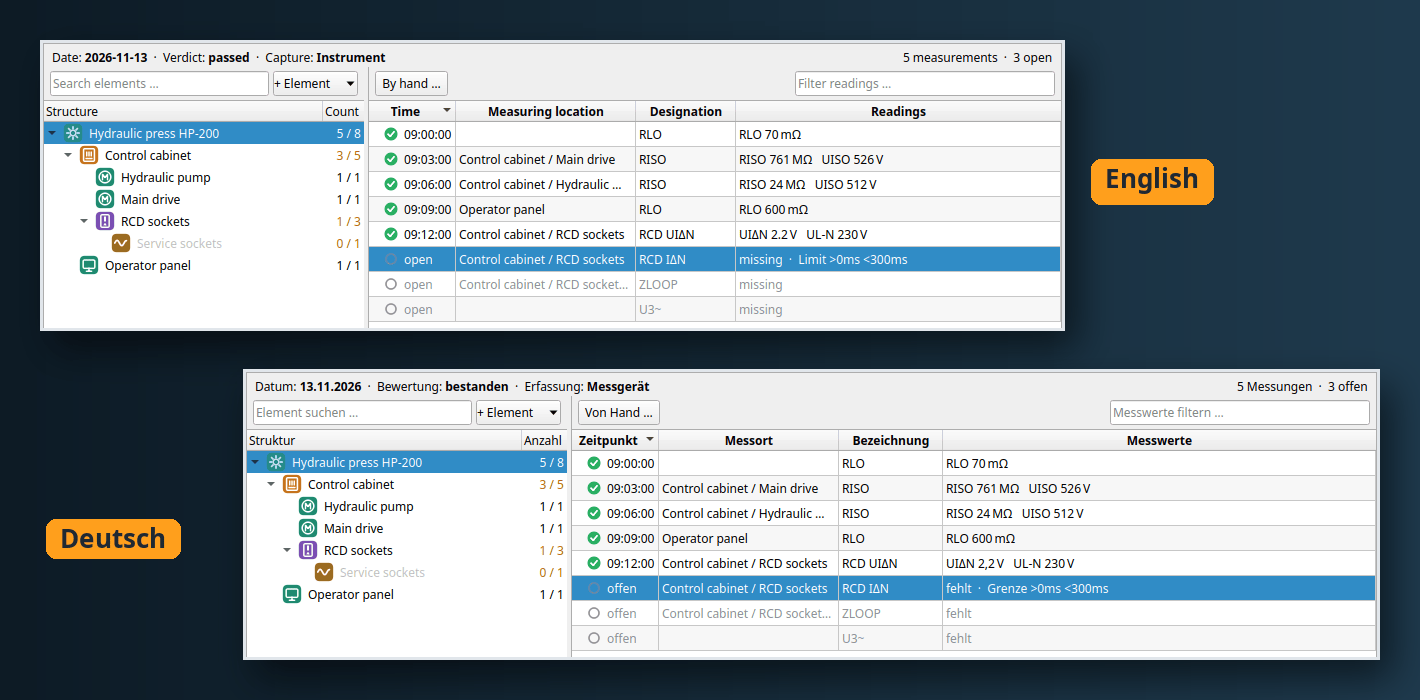
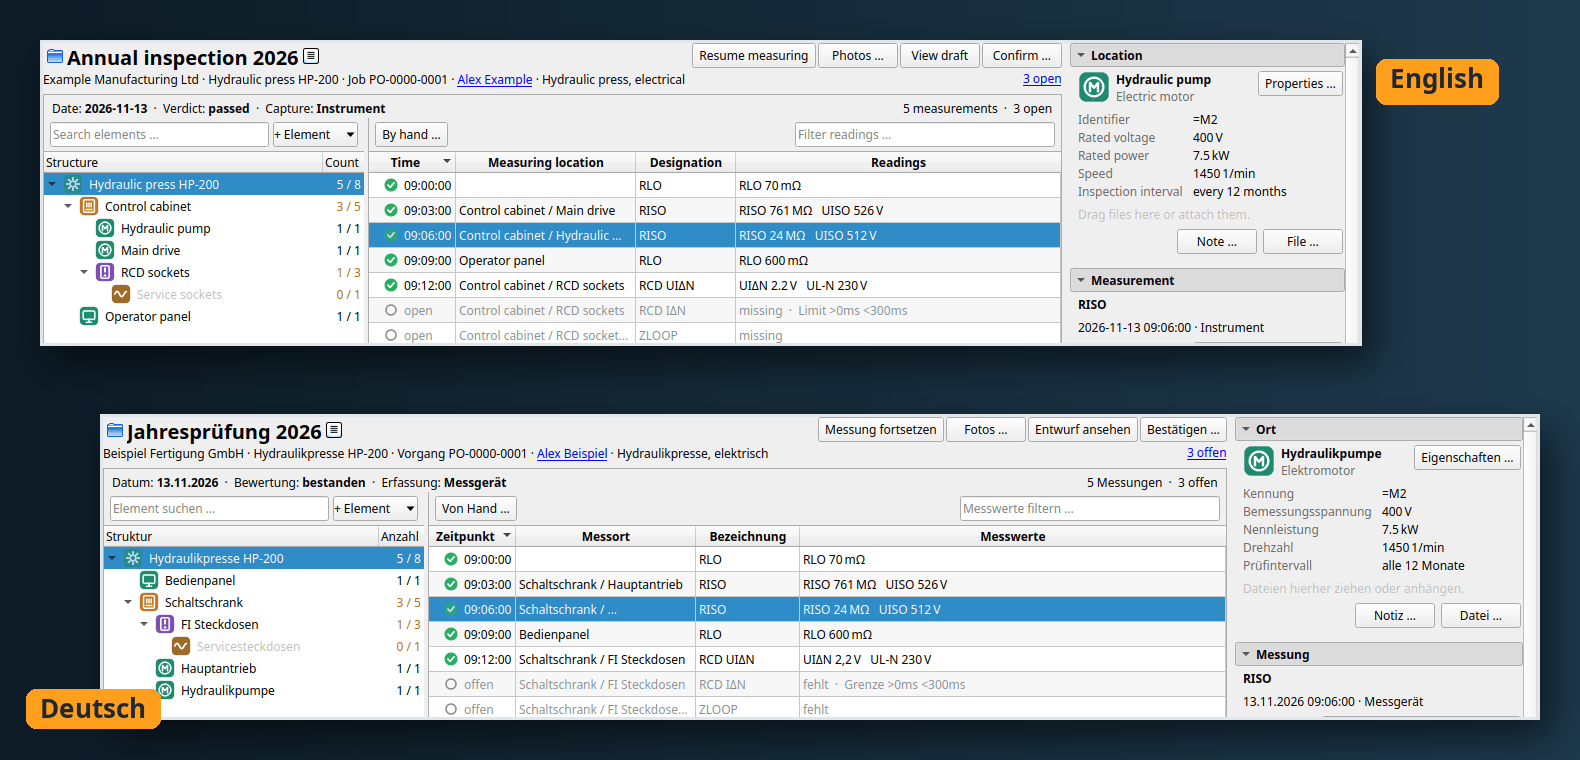
README: both languages with names typed in each; report language on its own
The picture of the two languages shows the German view with German names,
and the location panel with the kind and features of the element chosen in
either language. The README says which texts follow the language and which
stay as typed, and that a report's language is chosen independently of the
program's language.

diff --git a/README.md b/README.md
@@ -72,8 +72,8 @@ along the way and offers what a campaign did differently when it is confirmed; i
 points are fixed and deviations need a reason.
 
 **Reports.** Reports are made from templates in a graphical editor with live preview, letterhead
-and logo, in German, English or Spanish independently of the program's language. A template block
-can show none, one or many measurements per element. Confirming a campaign seals the record;
+and logo, in German, English or Spanish, chosen for each report. A template block can show none,
+one or many measurements per element. Confirming a campaign seals the record;
 archived PDFs carry a checksum and keep the template they were made with. Reports can be signed
 as PAdES with an X.509 certificate from a PKCS#12 file or straight from an NSS database such as
 the one of Firefox or Thunderbird; pinentry asks for the key password.
@@ -91,11 +91,14 @@ range.
 with its structure, measurements and inspections.
 
 **German and English, made for Full HD.** The user interface speaks German or English, with
-dates and numbers written the way the language writes them; reports can be made in German,
-English or Spanish, whatever language the program runs in. The layout is made for Full HD
-screens (1920 × 1080), the usual display of a laptop taken into the field.
+dates and numbers written the way the language writes them. Everything the program brings along
+follows the language, kinds of elements, their features, quantities and verdicts; names the
+inspector types in stay as they were written. The language of a report is chosen on its own,
+independent of the program's language: an inspection worked in German can go to the customer as
+a report in English or Spanish. The layout is made for Full HD screens (1920 × 1080), the usual
+display of a laptop taken into the field.
 
-![The same campaign in English and in German](docs/images/languages.png)
+![The same campaign in English and in German, each with names typed in its language](docs/images/languages.png)
 
 ## Status
 
